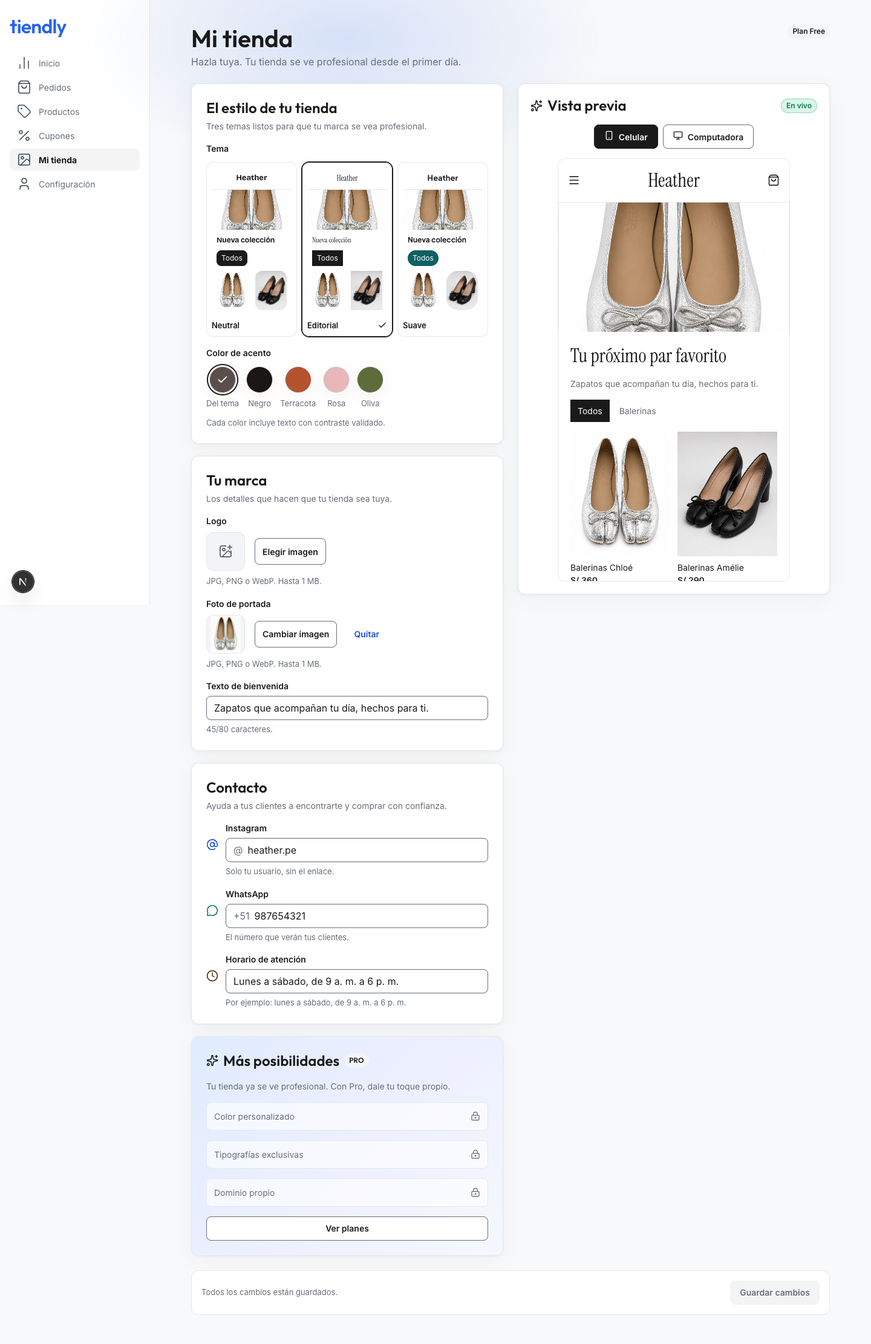
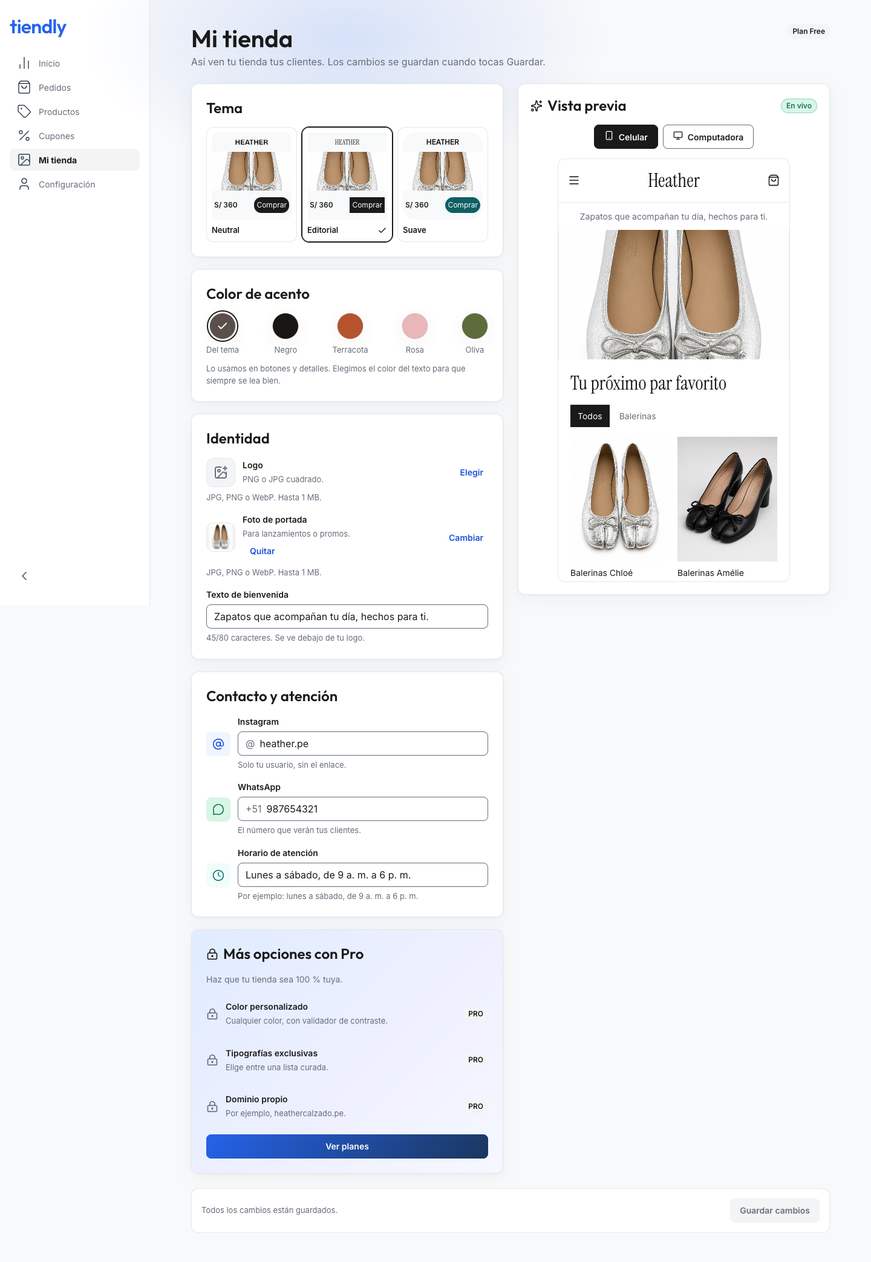
fix(mi-tienda): alinear MT1 y confirmar salida sin guardar

diff --git a/src/features/mi-tienda/components/mi-tienda-vista.tsx b/src/features/mi-tienda/components/mi-tienda-vista.tsx
@@ -1,30 +1,33 @@
 "use client";
 import { useRef, useState } from "react";
-import { CloudOff, Eye, Monitor, Smartphone, Sparkles } from "lucide-react";
+import { CloudOff, Monitor, Smartphone, Sparkles } from "lucide-react";
 import { PanelMain } from "@/components/panel";
 import { Badge, Button, Card, EmptyState } from "@/components/ui";
 import { cn } from "@/lib/cn";
 import { useMiTienda } from "../hooks/use-mi-tienda";
+import { useSalidaSinGuardar } from "../hooks/use-salida-sin-guardar";
 import { Apariencia } from "./apariencia";
 import { CamposFree } from "./campos-free";
 import { MiTiendaSkeleton } from "./mi-tienda-skeleton";
 import { ProBloqueado } from "./pro-bloqueado";
 import { TiendaPreview } from "./tienda-preview";
+import { SalidaSinGuardar } from "./salida-sin-guardar";
 
 export function MiTiendaVista({ escenario }: { escenario?: string }) {
   const m = useMiTienda(escenario);
+  const salida = useSalidaSinGuardar(m.pendiente, m.guardando);
   const [computadora, setComputadora] = useState(false);
   const preview = useRef<HTMLDialogElement>(null);
   return <PanelMain className="pb-28 lg:pb-12">
     <header className="flex flex-wrap items-start justify-between gap-4">
-      <div><h1 className="font-display-title text-h1 text-fg">Mi tienda</h1><p className="mt-1 text-body text-fg-secondary">Hazla tuya. Tu tienda se ve profesional desde el primer día.</p></div>
+      <div><h1 className="font-display-title text-h1 text-fg">Mi tienda</h1><p className="mt-1 text-body text-fg-secondary">Así ven tu tienda tus clientes. Los cambios se guardan cuando tocas Guardar.</p></div>
       <Badge>Plan Free</Badge>
     </header>
     {m.estado === "cargando" ? <MiTiendaSkeleton /> : m.estado === "error" ? <Card><EmptyState icon={CloudOff} title="No pudimos cargar tu tienda" description="Revisa tu conexión o los datos guardados e inténtalo de nuevo." action={<Button onClick={m.cargar}>Reintentar</Button>} /></Card> : <>
       {escenario === "vacio" && <p className="rounded-card border border-line-subtle bg-surface p-4 text-body-sm text-fg-secondary">Tu tienda está lista para personalizar. Elige un tema y agrega tu marca.</p>}
       <div className="grid items-start gap-6 xl:grid-cols-2">
         <div className="flex min-w-0 flex-col gap-5">
-          <Apariencia tienda={m.tienda} cambiar={m.cambiar} />
+          <Apariencia tienda={m.tienda} cambiar={m.cambiar} vistaPrevia={() => preview.current?.showModal()} />
           <CamposFree tienda={m.tienda} errores={m.errores} cambiar={m.cambiar} />
           <ProBloqueado />
         </div>
@@ -40,14 +43,15 @@ export function MiTiendaVista({ escenario }: { escenario?: string }) {
       </div>
       <div className="fixed inset-x-0 bottom-0 z-20 flex flex-wrap items-center justify-end gap-3 border-t border-line-subtle bg-surface px-4 py-4 xl:static xl:rounded-card xl:border">
         <p role="status" className="basis-full text-caption text-fg-secondary sm:basis-auto sm:flex-1">{m.mensaje || (m.pendiente ? "Tienes cambios sin guardar." : "Todos los cambios están guardados.")}</p>
-        <Button variant="secondary" className="xl:hidden" onClick={() => preview.current?.showModal()}><span className="flex items-center gap-2"><Eye aria-hidden className="size-4" />Vista previa</span></Button>
-        <Button loading={m.guardando} disabled={!m.pendiente || m.guardando} onClick={() => void m.guardar()}>Guardar cambios</Button>
+        <Button className="w-full xl:w-auto" loading={m.guardando} disabled={!m.pendiente || m.guardando} onClick={() => void m.guardar()}>Guardar cambios</Button>
       </div>
       <dialog ref={preview} aria-label="Vista previa de tu tienda" className="fixed inset-0 m-0 h-dvh max-h-dvh w-full max-w-none overflow-y-auto bg-page text-fg backdrop:bg-scrim">
         <header className="sticky top-0 z-10 flex items-center justify-between border-b border-line-subtle bg-surface p-4"><Button variant="secondary" onClick={() => preview.current?.close()}>Volver</Button><Badge tone="success">En vivo</Badge></header>
         <div className="mx-auto max-w-2xl pb-32"><TiendaPreview tienda={m.tienda} /></div>
         <footer className="fixed inset-x-0 bottom-0 border-t border-line-subtle bg-surface p-4"><p role="status" className="mb-3 text-caption text-fg-secondary">{m.mensaje || "Así verán tu tienda tus clientes."}</p><Button block loading={m.guardando} disabled={m.guardando} onClick={async () => { if (await m.guardar()) preview.current?.close(); }}>Guardar cambios</Button></footer>
       </dialog>
+      <SalidaSinGuardar abierto={salida.abierto} guardando={m.guardando} mensaje={m.mensaje} cerrar={salida.cerrar}
+        descartar={() => { m.descartar(); salida.confirmar(); }} guardar={async () => { if (await m.guardar()) salida.confirmar(); }} />
     </>}
   </PanelMain>;
 }

diff --git a/src/features/mi-tienda/components/apariencia.tsx b/src/features/mi-tienda/components/apariencia.tsx
@@ -1,25 +1,28 @@
 import { Check } from "lucide-react";
 import { cn } from "@/lib/cn";
-import { ACENTOS, INICIAL, TEMAS } from "../lib/config";
+import { ACENTOS, TEMAS } from "../lib/config";
 import type { Tienda } from "../types";
-import { TiendaPreview } from "./tienda-preview";
+import { MiniaturaTema } from "./miniatura-tema";
 import { Seccion } from "./seccion";
+import { Button } from "@/components/ui";
 
-type Props = { tienda: Tienda; cambiar: <K extends keyof Tienda>(key: K, valor: Tienda[K]) => void };
-export function Apariencia({ tienda, cambiar }: Props) {
-  return <Seccion titulo="El estilo de tu tienda" descripcion="Tres temas listos para que tu marca se vea profesional.">
-    <fieldset><legend className="mb-3 text-body-sm font-semibold">Tema</legend>
+type Props = { tienda: Tienda; cambiar: <K extends keyof Tienda>(key: K, valor: Tienda[K]) => void; vistaPrevia: () => void };
+export function Apariencia({ tienda, cambiar, vistaPrevia }: Props) {
+  return <><Seccion titulo="Tema">
+    <fieldset><legend className="sr-only">Tema</legend>
       <div className="grid grid-cols-3 gap-2">
         {TEMAS.map(t => <label key={t.id} className={cn("relative cursor-pointer rounded-card border p-2", tienda.tema === t.id ? "border-selected-border ring-1 ring-selected-border" : "border-line-subtle")}>
           <input type="radio" name="tema" value={t.id} checked={tienda.tema === t.id} onChange={() => cambiar("tema", t.id)} className="peer sr-only" />
-          <div className="rounded-theme ring-focus peer-focus-visible:ring-2"><TiendaPreview tienda={{ ...INICIAL, tema: t.id }} mini /></div>
+          <div className="rounded-theme ring-focus peer-focus-visible:ring-2"><MiniaturaTema tienda={tienda} tema={t.id} /></div>
           <span className="mt-2 flex items-center justify-between gap-1 text-caption font-semibold">{t.nombre}{tienda.tema === t.id && <Check aria-hidden className="size-4 shrink-0" />}</span>
           <span className="sr-only">{t.descripcion}</span>
         </label>)}
       </div>
     </fieldset>
-    <fieldset><legend className="mb-3 text-body-sm font-semibold">Color de acento</legend>
-      <div className="flex flex-wrap gap-3">
+    <Button variant="secondary" block className="xl:hidden" onClick={vistaPrevia}>Ver vista previa</Button>
+    </Seccion><Seccion titulo="Color de acento">
+    <fieldset><legend className="sr-only">Color de acento</legend>
+      <div className="flex flex-wrap justify-between gap-2">
         {ACENTOS.map(a => <label key={a.id} className="flex min-h-11 cursor-pointer flex-col items-center gap-2">
           <input type="radio" name="acento" value={a.id} checked={tienda.acento === a.id} onChange={() => cambiar("acento", a.id)} className="peer sr-only" />
           <span style={{ backgroundColor: `var(--tl-accent-option-${a.id}-fill)`, color: `var(--tl-accent-option-${a.id}-contrast)` }}
@@ -27,7 +30,7 @@ export function Apariencia({ tienda, cambiar }: Props) {
             {tienda.acento === a.id && <Check aria-hidden className="size-5" />}
           </span><span className="text-caption text-fg-secondary">{a.nombre}</span>
         </label>)}
-      </div><p className="mt-3 text-caption text-fg-secondary">Cada color incluye texto con contraste validado.</p>
+      </div><p className="mt-3 text-caption text-fg-secondary">Lo usamos en botones y detalles. Elegimos el color del texto para que siempre se lea bien.</p>
     </fieldset>
-  </Seccion>;
+  </Seccion></>;
 }

diff --git a/src/features/mi-tienda/components/campos-free.tsx b/src/features/mi-tienda/components/campos-free.tsx
@@ -6,20 +6,20 @@ import { Seccion } from "./seccion";
 
 export function CamposFree({ tienda, errores, cambiar }: { tienda: Tienda; errores: Errores; cambiar: <K extends keyof Tienda>(key: K, valor: Tienda[K]) => void }) {
   return <>
-    <Seccion titulo="Tu marca" descripcion="Los detalles que hacen que tu tienda sea tuya.">
-      <CampoImagen label="Logo" valor={tienda.logo} onChange={v => cambiar("logo", v)} />
-      <CampoImagen label="Foto de portada" valor={tienda.portada} onChange={v => cambiar("portada", v)} />
+    <Seccion titulo="Identidad">
+      <CampoImagen label="Logo" ayuda="PNG o JPG cuadrado." valor={tienda.logo} onChange={v => cambiar("logo", v)} />
+      <CampoImagen label="Foto de portada" ayuda="Para lanzamientos o promos." valor={tienda.portada} onChange={v => cambiar("portada", v)} />
       <Field label="Texto de bienvenida" value={tienda.bienvenida} maxLength={80} onChange={e => cambiar("bienvenida", e.target.value)}
-        error={errores.bienvenida} hint={`${tienda.bienvenida.length}/80 caracteres.`} />
+        error={errores.bienvenida} hint={`${tienda.bienvenida.length}/80 caracteres. Se ve debajo de tu logo.`} />
     </Seccion>
-    <Seccion titulo="Contacto" descripcion="Ayuda a tus clientes a encontrarte y comprar con confianza.">
-      <div className="flex items-start gap-3"><AtSign aria-hidden className="mt-7 size-5 shrink-0 text-accent-text" />
+    <Seccion titulo="Contacto y atención">
+      <div className="flex items-start gap-3"><span className="mt-7 flex size-10 shrink-0 items-center justify-center rounded-button bg-accent-subtle"><AtSign aria-hidden className="size-5 text-accent-text" /></span>
         <Field className="flex-1" label="Instagram" prefix="@" value={tienda.instagram} maxLength={30} onChange={e => cambiar("instagram", e.target.value)} error={errores.instagram} hint="Solo tu usuario, sin el enlace." />
       </div>
-      <div className="flex items-start gap-3"><MessageCircle aria-hidden className="mt-7 size-5 shrink-0 text-success" />
+      <div className="flex items-start gap-3"><span className="mt-7 flex size-10 shrink-0 items-center justify-center rounded-button bg-success-surface"><MessageCircle aria-hidden className="size-5 text-success" /></span>
         <Field className="flex-1" label="WhatsApp" prefix="+51" inputMode="numeric" value={tienda.whatsapp} maxLength={9} onChange={e => cambiar("whatsapp", e.target.value.replace(/\D/g, ""))} error={errores.whatsapp} hint="El número que verán tus clientes." />
       </div>
-      <div className="flex items-start gap-3"><Clock aria-hidden className="mt-7 size-5 shrink-0 text-warning" />
+      <div className="flex items-start gap-3"><span className="mt-7 flex size-10 shrink-0 items-center justify-center rounded-button bg-info-surface"><Clock aria-hidden className="size-5 text-info" /></span>
         <Field className="flex-1" label="Horario de atención" value={tienda.horario} maxLength={160} onChange={e => cambiar("horario", e.target.value)} error={errores.horario} hint="Por ejemplo: lunes a sábado, de 9 a. m. a 6 p. m." />
       </div>
     </Seccion>

diff --git a/src/features/mi-tienda/components/campo-imagen.tsx b/src/features/mi-tienda/components/campo-imagen.tsx
@@ -3,7 +3,7 @@ import { useId, useRef, useState } from "react";
 import { ImagePlus } from "lucide-react";
 import { Button } from "@/components/ui";
 
-export function CampoImagen({ label, valor, onChange }: { label: string; valor: string; onChange: (valor: string) => void }) {
+export function CampoImagen({ label, ayuda, valor, onChange }: { label: string; ayuda: string; valor: string; onChange: (valor: string) => void }) {
   const id = useId();
   const [error, setError] = useState("");
   const [cargando, setCargando] = useState(false);
@@ -29,18 +29,20 @@ export function CampoImagen({ label, valor, onChange }: { label: string; valor: 
     finally { setCargando(false); }
   }
   return <div className="flex flex-col gap-2">
-    <p className="text-body-sm font-semibold">{label}</p>
-    <div className="flex items-center gap-4">
-      <div className="flex size-16 shrink-0 items-center justify-center overflow-hidden rounded-card border border-line-subtle bg-sunken">
+    <div className="flex items-center gap-3">
+      <div className="flex size-12 shrink-0 items-center justify-center overflow-hidden rounded-card border border-line-subtle bg-sunken">
         {valor ? <img src={valor} alt={label} className="size-full object-contain" /> : <ImagePlus aria-hidden className="size-6 text-icon-subtle" />}
       </div>
-      <div className="flex flex-wrap items-center gap-3">
-        <label htmlFor={id} className="relative flex min-h-11 cursor-pointer items-center rounded-button border border-line-strong bg-surface px-3 text-body-sm font-semibold focus-within:outline-2 focus-within:outline-focus">
-          {cargando ? "Leyendo imagen…" : valor ? "Cambiar imagen" : "Elegir imagen"}
+      <div className="min-w-0 flex-1"><p className="text-body-sm font-semibold">{label}</p><p className="mt-1 text-caption text-fg-secondary">{ayuda}</p>
+        {valor && <Button variant="ghost" size="sm" disabled={cargando} aria-label={`Quitar ${label.toLowerCase()}`} onClick={() => { version.current++; onChange(""); }}>Quitar</Button>}
+      </div>
+      <div className="flex shrink-0 items-center">
+        <label htmlFor={id} className="relative flex min-h-11 cursor-pointer items-center rounded-button px-2 text-body-sm font-semibold text-accent-text focus-within:outline-2 focus-within:outline-focus">
+          {cargando ? "Leyendo…" : valor ? "Cambiar" : "Elegir"}
           <input id={id} type="file" accept="image/png,image/jpeg,image/webp" disabled={cargando} aria-describedby={`${id}-ayuda`}
+            aria-label={`${valor ? "Cambiar" : "Elegir"} ${label.toLowerCase()}`}
             className="absolute inset-0 w-full cursor-pointer opacity-0" onChange={e => { void elegir(e.target.files?.[0]); e.target.value = ""; }} />
         </label>
-        {valor && <Button variant="ghost" disabled={cargando} onClick={() => { version.current++; onChange(""); }}>Quitar</Button>}
       </div>
     </div>
     <p id={`${id}-ayuda`} className="text-caption text-fg-secondary">JPG, PNG o WebP. Hasta 1 MB.</p>

diff --git a/src/features/mi-tienda/components/pro-bloqueado.tsx b/src/features/mi-tienda/components/pro-bloqueado.tsx
@@ -1,6 +1,6 @@
 "use client";
 import { useRef } from "react";
-import { LockKeyhole, Sparkles } from "lucide-react";
+import { LockKeyhole } from "lucide-react";
 import { Badge, Button, Card } from "@/components/ui";
 
 const EXTRAS = ["Banner de alto impacto", "Ocultar el sello de Tiendly", "Badges de stock personalizados", "Mensajes dinámicos de WhatsApp", "Avisos de stock bajo por WhatsApp"];
@@ -8,12 +8,12 @@ export function ProBloqueado() {
   const dialog = useRef<HTMLDialogElement>(null);
   return <>
     <Card as="section" className="flex flex-col gap-4 bg-highlight p-5 lg:p-6">
-      <h2 className="flex items-center gap-2 font-display-title text-h3"><Sparkles aria-hidden className="size-5" />Más posibilidades <Badge>PRO</Badge></h2>
-      <p className="text-body-sm text-fg-secondary">Tu tienda ya se ve profesional. Con Pro, dale tu toque propio.</p>
-      {["Color personalizado", "Tipografías exclusivas", "Dominio propio"].map(t => <div key={t} className="flex items-center justify-between gap-3 rounded-button border border-line-subtle bg-surface/60 p-3 text-body-sm text-fg-secondary">
-        <span>{t}</span><LockKeyhole aria-label="Disponible en Pro" className="size-4" />
+      <h2 className="flex items-center gap-2 font-display-title text-h3"><LockKeyhole aria-hidden className="size-5" />Más opciones con Pro</h2>
+      <p className="text-body-sm text-fg-secondary">Haz que tu tienda sea 100 % tuya.</p>
+      {[{ titulo: "Color personalizado", ayuda: "Cualquier color, con validador de contraste." }, { titulo: "Tipografías exclusivas", ayuda: "Elige entre una lista curada." }, { titulo: "Dominio propio", ayuda: "Por ejemplo, heathercalzado.pe." }].map(t => <div key={t.titulo} className="flex min-h-12 items-center gap-3 py-2 text-body-sm">
+        <LockKeyhole aria-hidden className="size-5 shrink-0 text-icon-subtle" /><div className="min-w-0 flex-1"><p className="font-semibold text-fg">{t.titulo}</p><p className="mt-1 text-caption text-fg-secondary">{t.ayuda}</p></div><Badge>PRO</Badge>
       </div>)}
-      <Button variant="secondary" onClick={() => dialog.current?.showModal()}>Ver planes</Button>
+      <Button onClick={() => dialog.current?.showModal()}>Ver planes</Button>
     </Card>
     <dialog ref={dialog} aria-labelledby="planes-titulo" className="fixed inset-0 m-auto max-h-dvh w-full max-w-lg overflow-y-auto rounded-card border border-line-subtle bg-surface p-6 text-fg shadow-overlay backdrop:bg-scrim">
       <h2 id="planes-titulo" className="font-display-title text-h2">Elige cómo crece tu tienda</h2>

diff --git a/src/features/mi-tienda/components/salida-sin-guardar.tsx b/src/features/mi-tienda/components/salida-sin-guardar.tsx
@@ -1,0 +1,23 @@
+"use client";
+import { useEffect, useRef } from "react";
+import { Button } from "@/components/ui";
+
+type Props = { abierto: boolean; guardando: boolean; mensaje: string; cerrar: () => void; descartar: () => void; guardar: () => Promise<void> };
+export function SalidaSinGuardar({ abierto, guardando, mensaje, cerrar, descartar, guardar }: Props) {
+  const dialog = useRef<HTMLDialogElement>(null);
+  useEffect(() => {
+    if (abierto && !dialog.current?.open) dialog.current?.showModal();
+    else if (!abierto && dialog.current?.open) dialog.current?.close();
+  }, [abierto]);
+  return <dialog ref={dialog} aria-labelledby="salir-mi-tienda" onCancel={e => { if (guardando) e.preventDefault(); else cerrar(); }}
+    className="fixed inset-x-0 bottom-0 top-auto m-0 max-h-[90dvh] w-full max-w-none overflow-y-auto rounded-t-xl border border-line-subtle bg-surface p-6 text-fg shadow-overlay backdrop:bg-scrim lg:inset-0 lg:m-auto lg:max-w-lg lg:rounded-card">
+    <h2 id="salir-mi-tienda" className="font-display-title text-h2">Tienes cambios sin guardar</h2>
+    <p className="mt-3 text-body text-fg-secondary">Guarda los cambios antes de salir o descártalos para conservar la última versión guardada.</p>
+    {mensaje && <p role="status" className="mt-3 text-body-sm text-fg-secondary">{mensaje}</p>}
+    <div className="mt-6 flex flex-col gap-3">
+      <Button disabled={guardando} loading={guardando} onClick={() => void guardar()}>Guardar y salir</Button>
+      <Button variant="secondary" disabled={guardando} onClick={cerrar}>Seguir editando</Button>
+      <Button variant="ghost" disabled={guardando} onClick={descartar}>Descartar y salir</Button>
+    </div>
+  </dialog>;
+}

diff --git a/src/features/mi-tienda/components/tienda-preview.tsx b/src/features/mi-tienda/components/tienda-preview.tsx
@@ -12,11 +12,11 @@ export function TiendaPreview({ tienda, mini = false, computadora = false }: { t
         : <p className={cn("font-display-title text-h2", mini && "w-full text-center text-caption")}>Heather</p>}
       {!mini && <ShoppingBag aria-hidden className="size-5" />}
     </div>
+    {!mini && <p className="break-words px-5 py-3 text-center text-body-sm text-fg-secondary">{tienda.bienvenida || "Bienvenidos a Heather."}</p>}
     {tienda.portada ? <img src={tienda.portada} alt="Colección de zapatos Heather" className={cn("aspect-video w-full object-cover", mini && "aspect-[2/1]")} />
       : <div className="flex aspect-video items-center justify-center bg-sunken p-4 text-caption text-fg-secondary">Tu foto de portada</div>}
     <div className={cn("flex flex-col gap-4 p-5", mini && "gap-2 p-2")}>
       <h3 className={cn("font-display-title text-h2", mini && "text-label")}>{mini ? "Nueva colección" : "Tu próximo par favorito"}</h3>
-      {!mini && <p className="break-words text-body-sm text-fg-secondary">{tienda.bienvenida || "Bienvenidos a Heather."}</p>}
       <div className="flex gap-2"><span className={cn("rounded-chip bg-accent px-3 py-2 text-body-sm text-on-accent", mini && "px-2 py-1 text-label")}>Todos</span>
         {!mini && <span className="p-2 text-body-sm text-fg-secondary">Balerinas</span>}</div>
       <div className={cn("grid grid-cols-2 gap-3", computadora && "grid-cols-4")}>

diff --git a/src/features/mi-tienda/hooks/use-salida-sin-guardar.ts b/src/features/mi-tienda/hooks/use-salida-sin-guardar.ts
@@ -1,0 +1,28 @@
+"use client";
+import { useEffect, useState } from "react";
+import { useRouter } from "next/navigation";
+
+/** La advertencia de recarga vive en useMiTienda; aquí se interceptan los enlaces del panel. */
+export function useSalidaSinGuardar(pendiente: boolean, guardando: boolean) {
+  const router = useRouter();
+  const [destino, setDestino] = useState<string | null>(null);
+  useEffect(() => {
+    if (!pendiente) return;
+    function interceptar(event: MouseEvent) {
+      const link = event.target instanceof Element ? event.target.closest("a") : null;
+      if (!link || link.target === "_blank" || event.button !== 0 || event.ctrlKey || event.metaKey || event.shiftKey || event.altKey || link.hasAttribute("download")) return;
+      const url = new URL(link.href, location.href);
+      if (url.origin !== location.origin || url.href === location.href || url.hash) return;
+      event.preventDefault();
+      if (!guardando) setDestino(url.pathname + url.search);
+    }
+    document.addEventListener("click", interceptar, true);
+    return () => document.removeEventListener("click", interceptar, true);
+  }, [pendiente, guardando]);
+  function confirmar() {
+    if (!destino) return;
+    const href = destino;
+    setDestino(null); router.push(href);
+  }
+  return { abierto: destino !== null, cerrar: () => setDestino(null), confirmar };
+}

diff --git a/src/features/mi-tienda/components/miniatura-tema.tsx b/src/features/mi-tienda/components/miniatura-tema.tsx
@@ -1,0 +1,14 @@
+import type { Tema, Tienda } from "../types";
+
+/** MT1: una mini tienda por tema, con identidad y foto de la propia tienda. */
+export function MiniaturaTema({ tienda, tema }: { tienda: Tienda; tema: Tema }) {
+  return <div data-theme={tema} className="flex h-36 flex-col overflow-hidden rounded-theme bg-page text-fg">
+    <header className="flex h-8 shrink-0 items-center justify-center px-1">
+      {tienda.logo ? <img src={tienda.logo} alt="Heather" className="h-5 max-w-16 object-contain" /> : <span className="font-display-title text-label">HEATHER</span>}
+    </header>
+    {tienda.portada ? <img src={tienda.portada} alt="" className="h-16 w-full object-cover" /> : <div className="h-16 bg-sunken" />}
+    <div className="flex flex-1 flex-wrap items-center justify-between gap-1 p-1">
+      <span className="text-label font-semibold">S/ 360</span><span className="rounded-button bg-accent px-1 py-1 text-label text-on-accent">Comprar</span>
+    </div>
+  </div>;
+}

diff --git a/src/features/mi-tienda/hooks/use-mi-tienda.ts b/src/features/mi-tienda/hooks/use-mi-tienda.ts
@@ -35,7 +35,7 @@ export function useMiTienda(escenario?: string) {
   async function guardar() {
     const errores = validarTienda(tienda);
     setErrores(errores); setMensaje("");
-    if (Object.keys(errores).length) return false;
+    if (Object.keys(errores).length) { setMensaje("Revisa los campos marcados antes de guardar."); return false; }
     setGuardando(true);
     try {
       localStorage.setItem(STORAGE, JSON.stringify(tienda));
@@ -44,5 +44,6 @@ export function useMiTienda(escenario?: string) {
     } catch { setMensaje("No pudimos guardar. Revisa el espacio disponible de tu navegador e inténtalo de nuevo."); return false; }
     finally { setGuardando(false); }
   }
-  return { tienda, estado, errores, mensaje, pendiente, guardando, cambiar, guardar, cargar };
+  function descartar() { setTienda(guardada); setErrores({}); setMensaje(""); }
+  return { tienda, estado, errores, mensaje, pendiente, guardando, cambiar, guardar, cargar, descartar };
 }

diff --git a/docs/revision-figma-mi-tienda.md b/docs/revision-figma-mi-tienda.md
@@ -1,0 +1,28 @@
+# Revisión de Mi tienda contra Figma
+
+Fecha: 16-oct-2026. Referencia: archivo `zHR0uS37OATafFq7U4NEwr`, Flujos.
+
+## Alcance verificado
+
+Se obtuvo el contexto completo y la captura de **MT1 · Mi tienda · Personalizar**, nodo [260:5829](https://www.figma.com/design/zHR0uS37OATafFq7U4NEwr?node-id=260-5829). La página Flujos también permitió identificar MT2 y MTD1, pero sus consultas posteriores devolvieron «sin acceso de edición», incluso después de comprobar la cuenta conectada y reintentar una consulta individual.
+
+## Correcciones aplicadas desde MT1
+
+- Tema y Color de acento son secciones separadas. Las miniaturas muestran nombre, foto de la propia tienda, precio y botón; usan `data-theme` con los modos existentes.
+- «Ver vista previa» se encuentra debajo de los temas en móvil; el pie fijo contiene «Guardar cambios».
+- Identidad agrupa filas compactas de logo y portada, con ayuda y bienvenida de hasta 80 caracteres. La bienvenida aparece debajo del logo en la vista previa, según la ayuda del campo.
+- Contacto y atención utiliza contenedores de color semántico para los iconos decorativos de Instagram, WhatsApp y horario.
+- «Más opciones con Pro» muestra ayuda, candado y badge PRO por función; «Ver planes» mantiene un detalle real y usa el botón primario del sistema.
+- La anotación de Guardar exige preguntar al salir con cambios. Ahora los enlaces del panel abren confirmación con Seguir editando, Guardar y salir o Descartar y salir; los errores de validación o almacenamiento impiden afirmar que se guardó. Se mantiene la advertencia nativa al recargar/cerrar.
+
+## Congelamiento estético y límites
+
+No se modifican `design/tokens.json`, estilos globales, componentes compartidos ni archivos de tokens generados. Se mantiene la selección en carbón, el sistema tipográfico del repo y sus iconos Lucide; los SVG de Figma que representan controles dinámicos no sustituyen el sistema de componentes. Las fotos del contexto figuran como `unknown`; se conservan las imágenes locales del catálogo de Heather y las imágenes elegidas por la persona usuaria.
+
+La barra compartida del panel se conserva como en main. El guardado sigue simulado en este navegador, por eso no se afirma que los cambios se publiquen en un servidor.
+
+## Validación y pendiente
+
+Chrome a 390 y 1440: secciones MT1, 15 combinaciones tema/acento con contraste ≥4.5:1, navegación con Seguir/Guardar/Descartar, validación que impide salir, persistencia, vista previa móvil, planes y error; sin desbordes ni errores JavaScript. Capturas actualizadas en `docs/capturas/mi-tienda/`, incluida `salir-390.png`.
+
+**Pendiente:** comparación visual directa de MT2 (260:6086) y MTD1 (261:5943), bloqueada por el conector de Figma. Las verificaciones funcionales y de navegador de esas vistas no equivalen a confirmar su coincidencia visual con Figma.

diff --git a/docs/modulo-9-mi-tienda.md b/docs/modulo-9-mi-tienda.md
@@ -9,4 +9,4 @@ Implementación de la decisión 0003, texto aprobado compartido por Gabi el 16-o
 - Guardado simulado en localStorage (`tiendly:mi-tienda:heather`), solo en este navegador. Todavía no publica cambios en la vitrina ni sube imágenes a un servidor. Los productos de la vista previa son una muestra del catálogo Heather.
 - Carga, datos, personalización vacía y error. Escenarios `?escenario=vacio|error` solo en desarrollo/previews.
 
-Se mantiene el sistema visual vigente de main (0020), por pedido expreso de partir de esa rama y respetar el congelamiento estético. Figma inicialmente rechazó el acceso; se implementa desde la descripción aprobada de 0003.
+Se mantiene el sistema visual vigente de main (0020), por pedido expreso de partir de esa rama y respetar el congelamiento estético. La implementación inicial se hizo desde la descripción aprobada de 0003. Después se revisó MT1 con contexto completo y captura de Figma; [revisión, correcciones y límites](revision-figma-mi-tienda.md).
